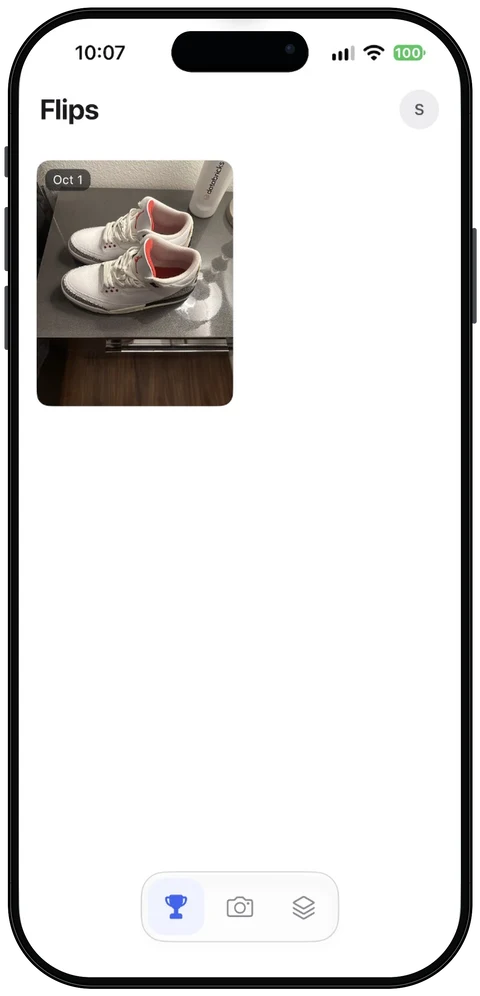
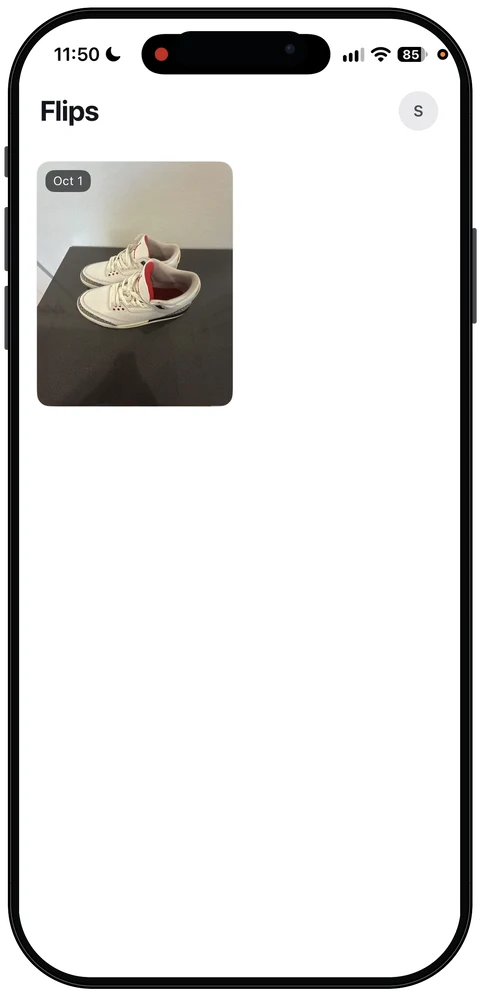
Show native demo story beats in README screenshots

diff --git a/docs/readme/README.md b/docs/readme/README.md
@@ -1,87 +1,75 @@
 # Showcase screenshot provenance
 
-The README shows real captures of the native app in one original,
-repository-authored generic iPhone-style presentation frame. Every phone image
-is transparent, 480 × 996 px and displayed at 220 px wide. The frame is illustrative,
-not an Apple marketing asset or a photographed device. The Scout animation is
-unchanged and documented below.
+All seven phone images are stills from the captain's native iPhone screen recording,
+`RPReplay_Final1790869944.MP4` (1206 × 2622, 439.768 seconds). They replace the
+older Mirroring captures. Each uses the same original repository-authored generic
+iPhone-style enclosure, transparent 480 × 996 WebP output and 220 px display width.
+The enclosure is illustrative, not an Apple marketing asset or a photographed device.
+The animated Scout remains unchanged and is documented below.
 
-| Image | Phone worker source in `devpost-screens/mirroring-set/` | Native source commit | What it demonstrates |
+| README image | Shared native PNG | Source time (seconds) | What it shows |
 | --- | --- | --- | --- |
-| `phone-airpods-review.webp` | `final2-03-airpods-review-1179x2556.png` | `6e74fc72dbdb2fa652f14c8e910573b8f7267d51` | Full AirPods Max hero photo, seller-stated identity, editable $148.50 price and the app's pricing wording. |
-| `phone-dualsense-review.webp` | `final2-04-dualsense-review-1179x2556.png` | `6e74fc72dbdb2fa652f14c8e910573b8f7267d51` | Full DualSense hero photo, item identity and editable $149.99 price. |
-| `phone-flips.webp` | `final2-07-flips-populated-1179x2556.png` | `6e74fc72dbdb2fa652f14c8e910573b8f7267d51` | Populated final-build Flips with the posted Jordan photo and October 1 date, without an unavailable tag. |
+| `phone-capture.webp` | `native-01-shoe-capture.png` | 8.5 | Jordan 3 shoes in the capture camera. |
+| `scout-pro.webp` | `native-02-pro-on-sandbox.png` | 85.0 | Actual "SnapList Pro is on" screen during the Apple sandbox demonstration, with Scout and monthly terms. |
+| `phone-to-list.webp` | `native-03-to-list.png` | 352.8 | Two ready items with rendered backpack and mouse thumbnails; no raw item ID title or placeholder. |
+| `phone-listing-review.webp` | `native-04-listing-sold-comps.png` | 207.5 | Jordan 3 review: $155 price, three sold matches, $100–$180 range, sale cards and editable fields. |
+| `phone-ebay-posted.webp` | `native-05-posted-to-ebay.png` | 301.7 | Actual post-success screen, Jordan photo and "Live on eBay" label. |
+| `phone-flips.webp` | `native-06-flips-live.png` | 321.0 | Populated Flips with the posted Jordan photo, after loading completes. |
+| `phone-sharing.webp` | `native-07-facebook-share.png` | 378.0 | Logitech mouse sharing drawer at $44.95 with two photos; Facebook Marketplace, Mercari and Depop all show Not started. |
 
-Raw sources remain in the phone worker's ignored
-`ios/Artifacts/input-keyboard-followup/` folder. Per-source SHA-256 hashes and
-framing receipts are checked into [frame-receipt.json](frame-receipt.json).
+## Capture quality, privacy and evidence
 
-## Capture and evidence limits
+The source timestamps fall within the editor's corresponding `screen` ranges in
+`data/snaplist-demo-edit/edit/edl.json`. They were checked against the walkthrough
+bug log. Selected frames contain no mouse cursor, raw "Item <id>" title, empty
+"No items yet" state, "Can't load" state, "(seller-stated)" suffix, error banner
+or missing item photo. Each source and framed output was visually inspected.
+No readable name, email, account ID, credential or notification is displayed.
+The one-letter profile avatar remains visible where captured.
 
-These are iPhone Mirroring captures of the running app, not native
-high-resolution screenshot attachments. The worker removed the Mac window by
-cropping observed screen bounds: final2 captures 612 × 1332 at +16+76. The
-final2 1179 × 2556 files are scaled exports of those Mirroring crops.
-Original windows/crops are retained locally. The framing tool then preserves
-screen proportions, rounds the aperture and adds the same illustrative device
-body. No mouse cursor or Mirroring pointer is visible in the three selected
-screens. No app UI,
-item photos, prices, marketplace status or evidence was fabricated or painted in.
+The native PNGs are unretouched full-resolution extracts. No status-bar crop was
+needed because no notification is visible. Native recording, microphone/camera,
+time and battery indicators remain source content. Framing resizes proportionally
+and rounds the screen aperture; it does not redraw UI or digitally remove a cursor.
+No source commit or installed-build SHA is inferred from the recording filename.
 
-The phone worker's `final2-walk-099-101-verdicts.json` records the signed final
-Release source and new AirPods/DualSense/Flips exports. It reports that the final
-Jordan Flips tile opened the actual native eBay Active listing at $160 with one
-available and zero sold. The screenshot used here shows the Flips tile; the
-account-bearing eBay proof stays private. Neither Flips nor the live listing
-means the item sold. Historical post-success and sharing screenshots are omitted
-because they contain Mirroring pointers; their source artifacts remain local.
-This README task did not operate the phone, publish a listing,
-make a purchase or send an external share.
+The Pro-on image is explicitly an Apple sandbox demonstration, not a live Apple
+purchase receipt or permanent price/allowance commitment. The eBay success screen
+shows the app's recorded confirmation; this extraction task did not publish an
+item or independently re-query eBay. Published is distinct from sold. The sharing
+screen shows Not started and is a manual handoff, not an external Facebook,
+Mercari or Depop publish. Pricing wording is reproduced as displayed, without a
+new independent sold-match evaluation. This task did not operate the phone.
 
-Pricing and identity wording are reproduced as displayed by the app; this
-framing task did not independently verify each sold match or product identity.
-These images do not establish an App Store release or live Apple purchase/restore.
+## Reproduce and reuse
 
-## Privacy and image quality
+The seven native PNGs and their receipt are exported to the authorized local
+`~/Desktop/snaplist-clips/stills/` folder for the Devpost worker. The raw recording
+and PNGs are not committed to this repository.
 
-Every selected full-resolution source and final framed output was visually
-inspected for real rendered photos and public-safe content. No name, email,
-account identifier, credential or notification is visible. The one-letter
-profile avatar is retained. All private/account-background images are excluded,
-including newer confirmation/paywall captures that expose the eBay account name.
+[Native still receipt](native-still-receipt.json) records the source-video hash,
+editor EDL hash, source seconds, native dimensions, PNG filenames and hashes.
+To extract an individual still without resizing or filtering:
 
-To list is omitted: the newer ready-list rows have blank thumbnails even though
-AirPods and DualSense photos render in review. Nike Dunk is excluded; Jordan 3
-is the only shoe. Empty/black Flips captures, photo placeholders and diagnostic
-screens are excluded. Every included draft has a real hero photo and price.
-Prepared/shared export packs
-remain distinct from eBay publish and sold status.
+```sh
+ffmpeg -ss SOURCE_SECONDS -i RPReplay_Final1790869944.MP4 \
+  -map 0:v:0 -frames:v 1 -threads 1 STILL.png
+```
 
-## Reproduce the framed images
-
-See [the framing tool instructions](../../scripts/readme/README.md). Copy the
-three selected raw files under their original filenames to ignored
-`ios/Artifacts/readme-input/`, then run from the repository root:
+Copy the selected PNGs under their listed filenames to ignored
+`ios/Artifacts/readme-input/`, then regenerate the README images from the root:
 
 ```sh
 python3 scripts/readme/frame-screens.py \
   --manifest scripts/readme/sources.json --output-dir docs/readme
 ```
 
-The receipt records source, frame and output hashes, crop rectangles, encoder
-version, sizes and dimensions. Raw sources and private test logs remain ignored.
-The older `listing-review.png` and `trophy-wall.png` filenames remain only for
-historical simulator evidence in the [developer guide](../developer-guide.md#screenshot-provenance).
-Those fixture matches are not live sales research or current hero images.
-
-## Cursor-free capture gate
-
-Only the final2 AirPods Max, DualSense and populated Flips sources pass the
-current cursor-free gate. Historical Jordan review, eBay post success, sharing
-and paywall images were removed because they contain Mirroring pointers. They
-may return only after clean recapture with the pointer outside the Mirroring
-window, then full source/output privacy, photo and cursor inspection. The README
-does not digitally erase pointers or fabricate replacement app content.
+[Frame receipt](frame-receipt.json) records the frame, source and output hashes,
+encoder version, byte counts and dimensions. See the
+[framing tool instructions](../../scripts/readme/README.md) for crop validation.
+All older pointer-bearing or placeholder captures are excluded. The old
+`listing-review.png` and `trophy-wall.png` remain only for historical simulator
+evidence in the [developer guide](../developer-guide.md#screenshot-provenance).
 
 ## Scout hero animation
 

diff --git a/README.md b/README.md
@@ -12,14 +12,14 @@
 <p align="center"><img src="docs/readme/scout-barcode.gif" width="180" alt="Scout, SnapList’s camera mascot, scanning a barcode on a cardboard parcel in a looping animation."></p>
 
 <p align="center">
-  <img src="docs/readme/phone-airpods-review.webp" width="220" alt="AirPods Max listing review: a full headphone photo, seller-stated identity, and an editable $148.50 price.">
+  <img src="docs/readme/phone-capture.webp" width="220" alt="Native iPhone capture: real Jordan 3 shoes in SnapList's camera.">
   &nbsp;
-  <img src="docs/readme/phone-dualsense-review.webp" width="220" alt="DualSense listing review: a real controller photo and an editable $149.99 price.">
+  <img src="docs/readme/phone-to-list.webp" width="220" alt="Native To list: a backpack and Logitech mouse are ready to review, both with real thumbnails.">
   &nbsp;
-  <img src="docs/readme/phone-flips.webp" width="220" alt="Populated Flips: the posted Jordan 3 item appears with its real photo and October 1 date.">
+  <img src="docs/readme/phone-listing-review.webp" width="220" alt="Native Jordan 3 review: $155 price, three sold matches from $100 to $180, and editable listing details.">
 </p>
 
-<p align="center"><sub>AirPods Max, DualSense, and a finished Jordan 3 listing. Real photos captured from the native iPhone app in matching presentation frames.<br><a href="docs/readme/README.md">Screenshot notes</a>.</sub></p>
+<p align="center"><sub>Capture → To list → review. Stills from the native iPhone demo recording in matching device frames.<br><a href="docs/readme/README.md">Screenshot notes and source timestamps</a>.</sub></p>
 
 ## From photo to flip
 
@@ -30,12 +30,24 @@
 5. **Choose where it goes.** Review and confirm a direct eBay publish. For Facebook Marketplace, Mercari, or Depop, take the prepared text and photos into the marketplace and finish posting there yourself.
 6. **See your Flips.** Finished items collect in a chronological view. An export marked prepared or shared stays distinct from an eBay publish; neither is a claim that the item sold.
 
+<p align="center">
+  <img src="docs/readme/phone-ebay-posted.webp" width="220" alt="Native eBay post success: Jordan 3 shoes are marked Live on eBay.">
+  &nbsp;
+  <img src="docs/readme/phone-flips.webp" width="220" alt="Native Flips: the posted Jordan 3 shoes appear with a real photo and October 1 date.">
+  &nbsp;
+  <img src="docs/readme/phone-sharing.webp" width="220" alt="Native Facebook Marketplace sharing drawer: a Logitech mouse at $44.95, two photos, and text/photo handoff steps; all destinations show Not started.">
+</p>
+
+<p align="center"><sub>Posted to eBay → Flips. Facebook Marketplace uses a guided handoff; this screen shows Not started.</sub></p>
+
 The first usable listing comes **before signup or a paywall**. Try the result on your own item before deciding to keep listing.
 
 ## RevenueCat powers SnapList Pro
 
 Scout meets you at a packing counter when you want more AI listings. The plan appears on a taped packing slip: price, renewal terms, Subscribe, and Restore, with Terms and Privacy close at hand.
 
+
+<p align="center"><img src="docs/readme/scout-pro.webp" width="220" alt="Native sandbox subscription confirmation: Scout celebrates SnapList Pro is on beside monthly plan terms."><br><sub>SnapList Pro is on — Apple sandbox demonstration. <a href="docs/readme/README.md">Screenshot notes</a>.</sub></p>
 
 | Free first item | SnapList Pro |
 | --- | --- |
